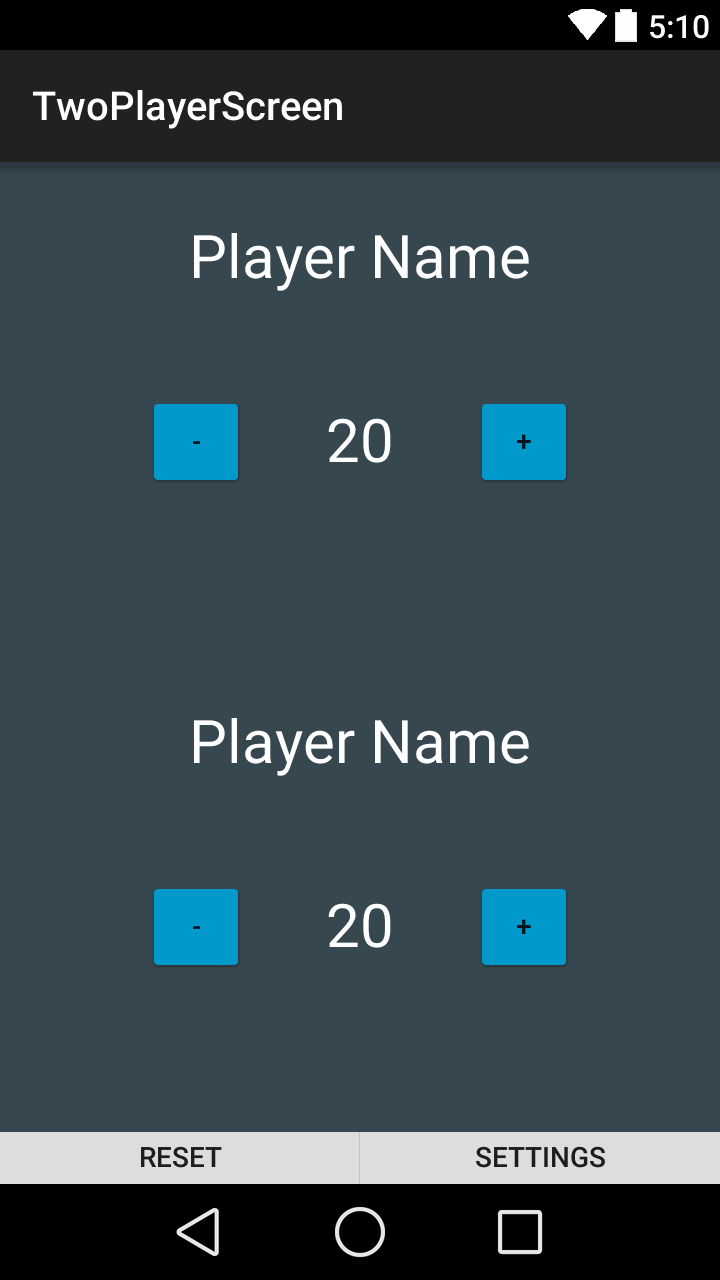
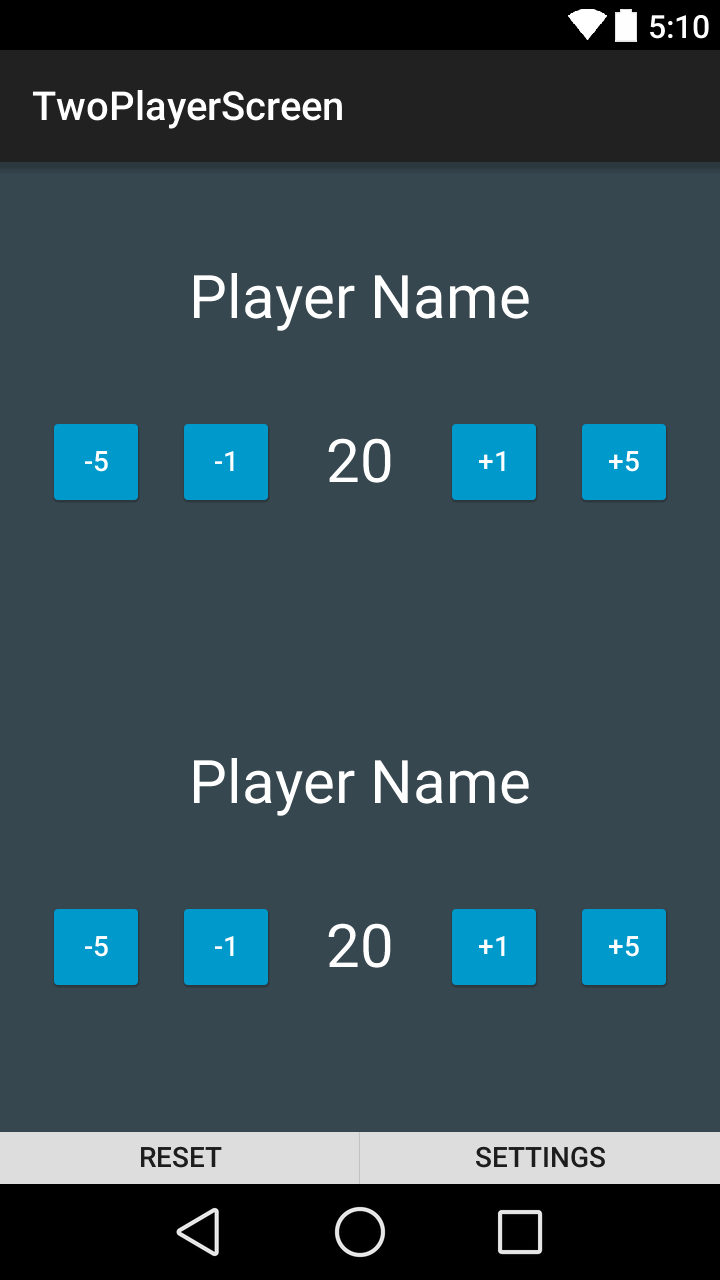
Added a +5/-5 Button to Life Total Activities
To decrease the number of clicks that the user needs to make to reach
the desired life total increase/decrease, a larger increment of +5/-5
was added.

diff --git a/app/src/main/java/com/example/tony/mtglifecounter/TwoPlayerLifeFragment.java b/app/src/main/java/com/example/tony/mtglifecounter/TwoPlayerLifeFragment.java
@@ -8,7 +8,6 @@ import android.view.View;
 import android.view.ViewGroup;
 
 import android.util.Log;
-import android.app.Activity;
 import android.widget.Button;
 import android.widget.TextView;
 
@@ -16,7 +15,7 @@ import android.widget.TextView;
 public class TwoPlayerLifeFragment extends Fragment {
 
     private static final String TAG = "Tony message";
-    Button add_life_total, sub_life_total;
+    Button add_life_total, sub_life_total, add_life_total_5, sub_life_total_5;
     TextView player_name, player_life;
 
     @Nullable
@@ -25,6 +24,8 @@ public class TwoPlayerLifeFragment extends Fragment {
         View view = inflater.inflate(R.layout.two_player_life_fragment, container, false);
         add_life_total = (Button) view.findViewById(R.id.add_life_total);
         sub_life_total = (Button) view.findViewById(R.id.sub_life_total);
+        add_life_total_5 = (Button) view.findViewById(R.id.add_life_total_5);
+        sub_life_total_5 = (Button) view.findViewById(R.id.sub_life_total_5);
         player_name = (TextView) view.findViewById(R.id.player_name);
         player_life = (TextView) view.findViewById(R.id.player_life);
 
@@ -44,6 +45,22 @@ public class TwoPlayerLifeFragment extends Fragment {
                 }
         );
 
+        add_life_total_5.setOnClickListener(
+                new View.OnClickListener(){
+                    public void onClick(View v){
+                        add_5_action();
+                    }
+                }
+        );
+
+        sub_life_total_5.setOnClickListener(
+                new View.OnClickListener() {
+                    public void onClick(View v) {
+                        sub_5_action();
+                    }
+                }
+        );
+
         return view;
     }
 
@@ -58,6 +75,22 @@ public class TwoPlayerLifeFragment extends Fragment {
         if (current_life > 0) {
             current_life--;
             player_life.setText(String.valueOf(current_life));
+        }
+    }
+
+    public void add_5_action(){
+        int current_life = Integer.parseInt(player_life.getText().toString());
+        current_life += 5;
+        player_life.setText(String.valueOf(current_life));
+    }
+
+    public void sub_5_action(){
+        int current_life = Integer.parseInt(player_life.getText().toString());
+        if (current_life > 4) {
+            current_life -= 5;
+            player_life.setText(String.valueOf(current_life));
+        } else {
+            player_life.setText("0");
         }
     }
 

diff --git a/app/src/main/java/com/example/tony/mtglifecounter/ThreePlayerLifeFragment.java b/app/src/main/java/com/example/tony/mtglifecounter/ThreePlayerLifeFragment.java
@@ -8,14 +8,13 @@ import android.view.View;
 import android.view.ViewGroup;
 
 import android.util.Log;
-import android.app.Activity;
 import android.widget.Button;
 import android.widget.TextView;
 
 public class ThreePlayerLifeFragment extends Fragment{
 
     private static final String TAG = "Tony message";
-    Button add_life_total, sub_life_total;
+    Button add_life_total, sub_life_total, add_life_total_5, sub_life_total_5;
     TextView player_name, player_life;
 
     @Nullable
@@ -24,6 +23,8 @@ public class ThreePlayerLifeFragment extends Fragment{
         View view = inflater.inflate(R.layout.three_player_life_fragment, container, false);
         add_life_total = (Button) view.findViewById(R.id.add_life_total);
         sub_life_total = (Button) view.findViewById(R.id.sub_life_total);
+        add_life_total_5 = (Button) view.findViewById(R.id.add_life_total_5);
+        sub_life_total_5 = (Button) view.findViewById(R.id.sub_life_total_5);
         player_name = (TextView) view.findViewById(R.id.player_name);
         player_life = (TextView) view.findViewById(R.id.player_life);
 
@@ -43,6 +44,22 @@ public class ThreePlayerLifeFragment extends Fragment{
                 }
         );
 
+        add_life_total_5.setOnClickListener(
+                new View.OnClickListener(){
+                    public void onClick(View v){
+                        add_5_action();
+                    }
+                }
+        );
+
+        sub_life_total_5.setOnClickListener(
+                new View.OnClickListener(){
+                    public void onClick(View v){
+                        sub_5_action();
+                    }
+                }
+        );
+
         return view;
     }
 
@@ -57,6 +74,22 @@ public class ThreePlayerLifeFragment extends Fragment{
         if (current_life > 0) {
             current_life--;
             player_life.setText(String.valueOf(current_life));
+        }
+    }
+
+    public void add_5_action(){
+        int current_life = Integer.parseInt(player_life.getText().toString());
+        current_life += 5;
+        player_life.setText(String.valueOf(current_life));
+    }
+
+    public void sub_5_action(){
+        int current_life = Integer.parseInt(player_life.getText().toString());
+        if (current_life > 4) {
+            current_life -= 5;
+            player_life.setText(String.valueOf(current_life));
+        } else {
+            player_life.setText("0");
         }
     }
 

diff --git a/app/src/main/java/com/example/tony/mtglifecounter/FourPlayerLifeFragment.java b/app/src/main/java/com/example/tony/mtglifecounter/FourPlayerLifeFragment.java
@@ -8,14 +8,13 @@ import android.view.View;
 import android.view.ViewGroup;
 
 import android.util.Log;
-import android.app.Activity;
 import android.widget.Button;
 import android.widget.TextView;
 
 public class FourPlayerLifeFragment extends Fragment{
     
     private static final String TAG = "Tony message";
-    Button add_life_total, sub_life_total;
+    Button add_life_total, sub_life_total, add_life_total_5, sub_life_total_5;
     TextView player_name, player_life;
 
     @Nullable
@@ -24,6 +23,8 @@ public class FourPlayerLifeFragment extends Fragment{
         View view = inflater.inflate(R.layout.four_player_life_fragment, container, false);
         add_life_total = (Button) view.findViewById(R.id.add_life_total);
         sub_life_total = (Button) view.findViewById(R.id.sub_life_total);
+        add_life_total_5 = (Button) view.findViewById(R.id.add_life_total_5);
+        sub_life_total_5 = (Button) view.findViewById(R.id.sub_life_total_5);
         player_name = (TextView) view.findViewById(R.id.player_name);
         player_life = (TextView) view.findViewById(R.id.player_life);
 
@@ -43,6 +44,22 @@ public class FourPlayerLifeFragment extends Fragment{
                 }
         );
 
+        add_life_total_5.setOnClickListener(
+                new View.OnClickListener(){
+                    public void onClick(View v){
+                        add_5_action();
+                    }
+                }
+        );
+
+        sub_life_total_5.setOnClickListener(
+                new View.OnClickListener(){
+                    public void onClick(View v){
+                        sub_5_action();
+                    }
+                }
+        );
+
         return view;
     }
 
@@ -57,6 +74,22 @@ public class FourPlayerLifeFragment extends Fragment{
         if (current_life > 0) {
             current_life--;
             player_life.setText(String.valueOf(current_life));
+        }
+    }
+
+    public void add_5_action(){
+        int current_life = Integer.parseInt(player_life.getText().toString());
+        current_life += 5;
+        player_life.setText(String.valueOf(current_life));
+    }
+
+    public void sub_5_action(){
+        int current_life = Integer.parseInt(player_life.getText().toString());
+        if (current_life > 4) {
+            current_life -= 5;
+            player_life.setText(String.valueOf(current_life));
+        } else {
+            player_life.setText("0");
         }
     }
 
